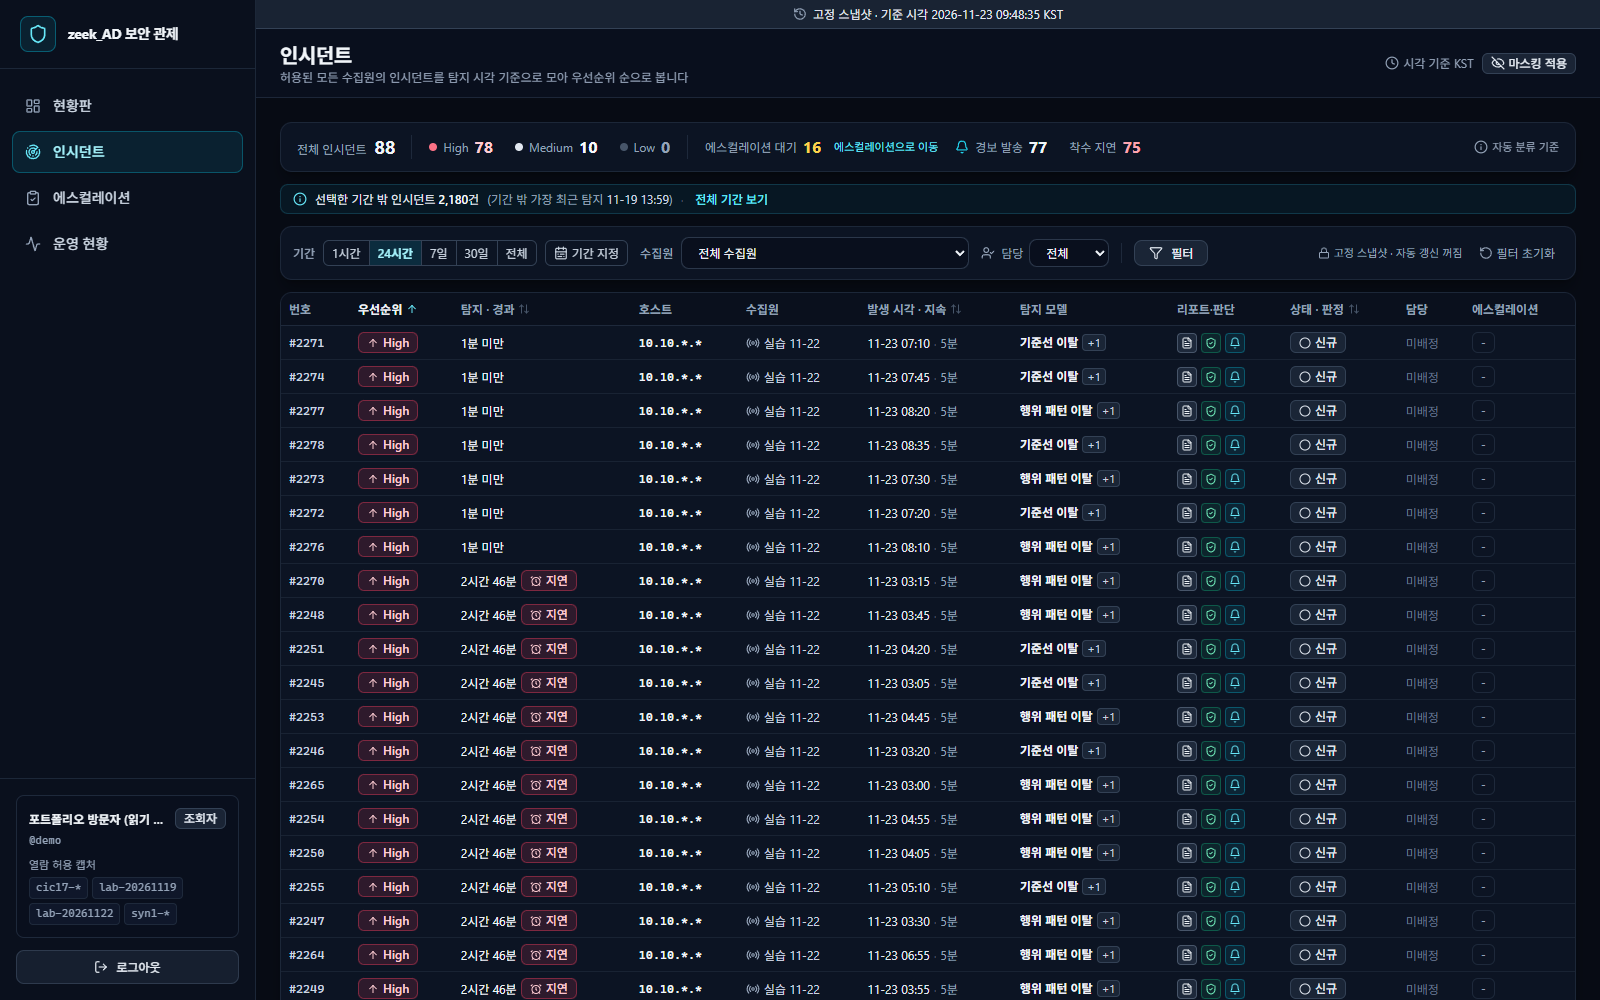
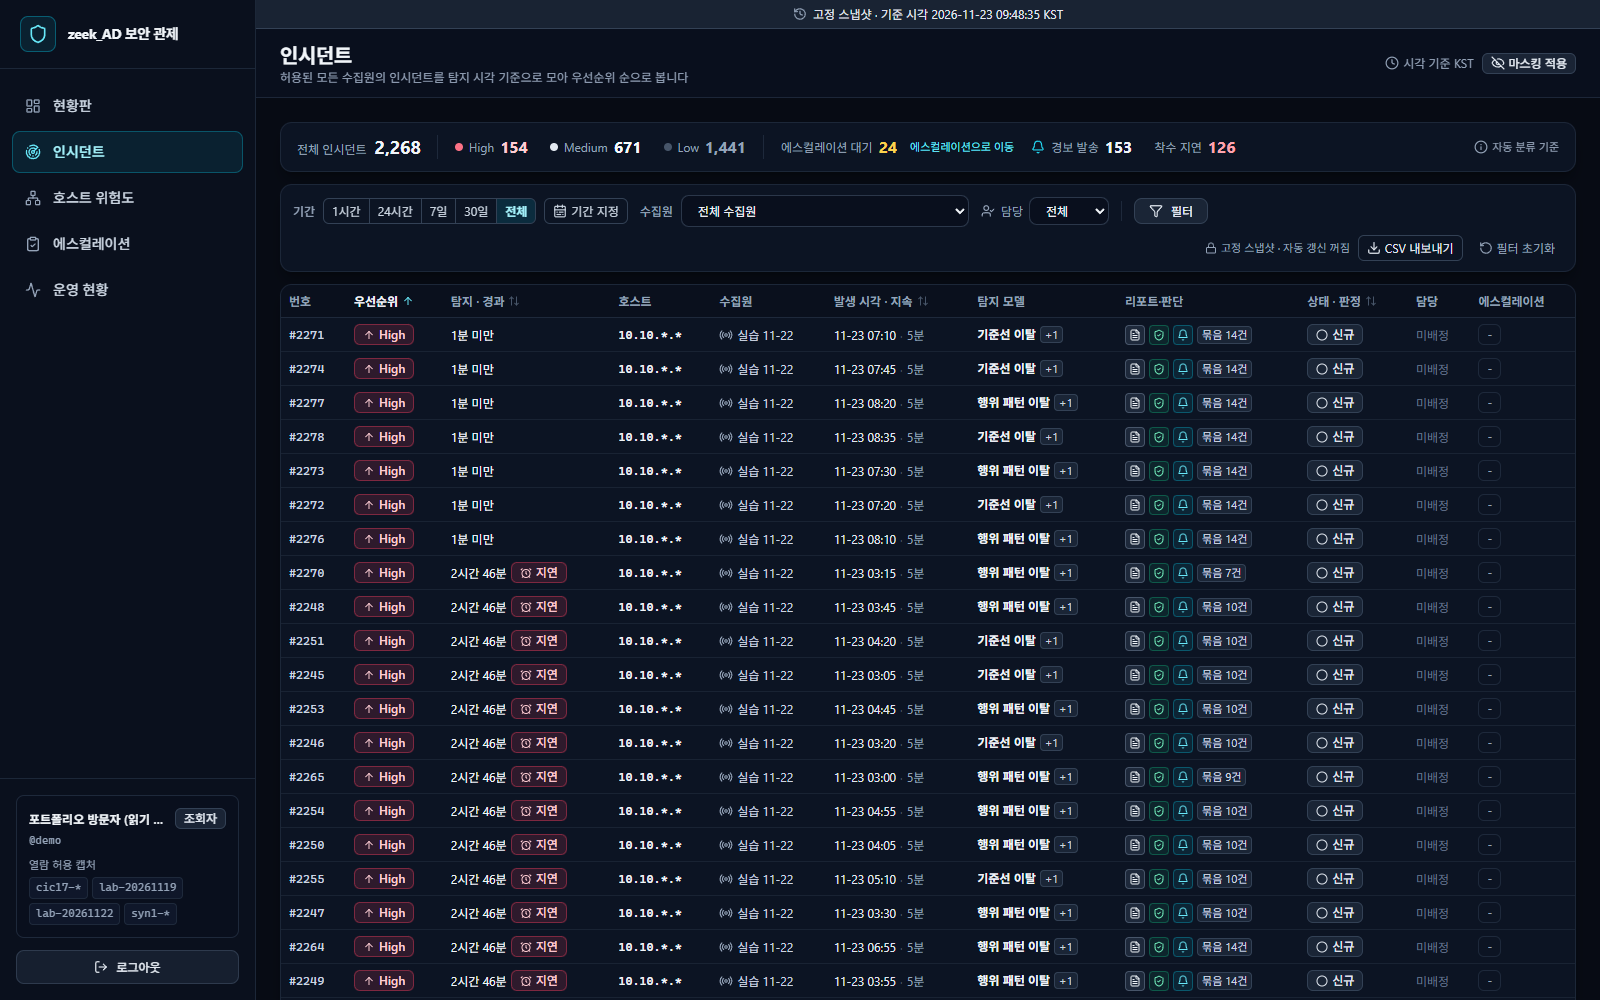
T47: 문서(README 새 화면 안내와 그림, 보안 검증 보고서 최근 검증, 변경 기록)
- README: 공개 데모 둘러보기에 현황판 위협 패널 셋, 호스트 위험도(조회자는 대역 단위, 호스트 단위는 체험 분석가 계정), 인시던트 목록의
  호스트·ATT&CK 조건과 묶음 표지·CSV 내보내기, 상세의 같은 호스트 인시던트·주요 통신 구조·요약 복사 안내. 권하는 순서에 호스트 위험도.
  역할별 화면에 분석가 호스트 위험도 그림. 문서의 작업 번호 범위 T01~T47
- 그림: 01·02·03(조회자), 04(분석가 조치 패널, 공개 데이터셋 인시던트)를 다시 찍고 09(분석가 호스트 위험도, 가져온 데이터만)를 더함
- 보안 검증 보고서 "최근 검증": 시험·빌드, VMware E2E([21]), 리허설([T47]), Trivy 문단을 T47 실행 값으로. 공개 주소 확인 줄은 그대로(T43 결과)
- 변경 기록: T47 행, 번호 범위
- README "검증"의 최근 결과 줄과 "아쉬운 점"의 큐 응답 시간 문장은 공개 주소 확인 뒤에 고친다

diff --git a/docs/security-verification-report.md b/docs/security-verification-report.md
@@ -4,16 +4,16 @@
 
 ## 최근 검증
 
-주요 변경 뒤 아래 검증을 다시 돌립니다. 가장 최근 E2E 실행은 `T43`(2026-11-24, commit `b8d6eab`)이고 그 뒤에는 문서만 바뀌었습니다. 가장 최근 리허설은 `T42`(commit `ada93a0`)입니다(`T43`은 서버·스냅샷·권한을 바꾸지 않아 다시 돌리지 않았습니다). 공개 주소 확인은 `T43` 앱 이미지 교체 뒤 결과입니다. 실행 기록 원본은 저장소 밖에 보관합니다.
+주요 변경 뒤 아래 검증을 다시 돌립니다. 가장 최근 E2E 실행과 리허설은 `T47`(2026-11-26, commit `227775b`)이고 그 뒤에는 문서와 그림만 바뀌었습니다. 공개 주소 확인은 `T43` 앱 이미지 교체 뒤 결과입니다. 실행 기록 원본은 저장소 밖에 보관합니다.
 
 | 검증 | 다시 돌리는 방법 | 결과 |
 |---|---|---|
-| 프론트엔드 타입 검사·Vitest·빌드, Gradle `check`(단위·통합·정적 보안 시험) | `npm --prefix frontend run typecheck`, `run test`, `run build`, `.\gradlew.bat check --rerun-tasks --no-daemon` | 모두 통과(Gradle 시험 225개, Vitest 363개, `T43`. 현황판 "전체 기간" 링크 조건과 링크 안 링크 없음, 0건 안내 한 문단, 템플릿 리포트 표시 시험 포함. `T42`의 근거 API가 HTTP가 아닌 응답·모양이 다른 JSON·`4xx`·`5xx`를 줄 때 상세 `200`·증적만 불러오지 못함·로그에 응답 본문 없음 시험 포함) |
-| VMware 구성 E2E(PostgreSQL 17 + WAF + SPA/JSON API, 역할별 권한·IDOR·마스킹·감사 로그) + OWASP ZAP 베이스라인 | `scripts/security-scan.ps1` | 종료 코드 `0`, 알림 묶음(허용 캡처 밖 구성원 제외·허용 밖 묶음 머리 식별자 숨김·`thread` 조건 `403`과 IDOR 감사·형식 오류 `400`) `[20]`, 사유·메모 길이 상한 `[17]`·사용자 지정 기간 `[18]`·AI 리포트 근거 새 칸의 조회자 IPv4 마스킹(객체 키 포함) `[19]`·Slack 알림 기록(`text`·`blocks`)의 조회자 IPv4 마스킹 `[4b]` 포함, ZAP High `0`·Medium `0`·Low `0`(허용 예외 `XSRF-TOKEN` 제외)·Informational `4` |
-| 공개 스택 리허설(스냅샷 복원, 시드, E2E `[0]`~`[8]`·`[T33]`(체험 계정 초기화, 주기 1분)·`[T25]`·`[T27]`·`[T29]`·`[T32]`·`[T36]`(익명 볼륨·조회 한도·HSTS·빠른 사람 사용 흉내)·`[T39]`(새 캡처 상세의 스레드 표시 칸·조회자 IPv4 마스킹, 숨김 캡처 부모 0, 옛 사건 번호 유지, 숨김 캡처 ID 노출 0)·`[T40]`(알림 묶음 11개의 목록 수와 상세 묶음 칸 = 독립 SQL, 숨김 캡처 구성원 14건 제외, 숨김 캡처 번호 `403`, 응답 시간), ZAP) | `scripts/portfolio-verify.ps1` | 통과, ZAP High `0`·Medium `0`·Low `0`·Informational `4` |
+| 프론트엔드 타입 검사·Vitest·빌드, Gradle `check`(단위·통합·정적 보안 시험) | `npm --prefix frontend run typecheck`, `run test`, `run build`, `.\gradlew.bat check --rerun-tasks --no-daemon` | 모두 통과(Gradle 시험 271개, Vitest 468개, `T47`. `T44`~`T46`·`T45b`가 더한 인시던트 목록 `hostIp`·`attack` 조건, 묶음 표지, 호스트 위험도, 같은 호스트 인시던트, 조회자 관측 계정 가리기, 현황판 위협 패널 시험 포함) |
+| VMware 구성 E2E(PostgreSQL 17 + WAF + SPA/JSON API, 역할별 권한·IDOR·마스킹·감사 로그) + OWASP ZAP 베이스라인 | `scripts/security-scan.ps1` | 종료 코드 `0`, `T44`~`T46`·`T45b` 기능 `[21]`(인시던트 목록 `hostIp`·`attack` 건수, 묶음 표지, 호스트 위험도 `/api/hosts`, 같은 호스트 인시던트, 현황판 새 집계가 독립 SQL과 같은 조건의 목록 건수와 같음. 조회자가 온전한 주소로 물으면 있는 호스트와 없는 호스트가 같은 `200`·0건. 조회자 응답에 온전한 IPv4와 계정 원문 없음. `*`가 든 호스트 조건과 공백이 든 ATT&CK 조건이 WAF를 지남. 허용 밖 `403`과 IDOR 감사, 형식 오류 `400`), 알림 묶음(허용 캡처 밖 구성원 제외·허용 밖 묶음 머리 식별자 숨김·`thread` 조건 `403`과 IDOR 감사·형식 오류 `400`) `[20]`, 사유·메모 길이 상한 `[17]`·사용자 지정 기간 `[18]`·AI 리포트 근거 새 칸의 조회자 IPv4 마스킹(객체 키 포함) `[19]`·Slack 알림 기록(`text`·`blocks`)의 조회자 IPv4 마스킹 `[4b]` 포함, ZAP High `0`·Medium `0`·Low `0`(허용 예외 `XSRF-TOKEN` 제외)·Informational `4` |
+| 공개 스택 리허설(스냅샷 복원, 시드, E2E `[0]`~`[8]`·`[T33]`(체험 계정 초기화, 주기 1분)·`[T25]`·`[T27]`·`[T29]`·`[T32]`·`[T36]`(익명 볼륨·조회 한도·HSTS·빠른 사람 사용 흉내)·`[T39]`(새 캡처 상세의 스레드 표시 칸·조회자 IPv4 마스킹, 숨김 캡처 부모 0, 옛 사건 번호 유지, 숨김 캡처 ID 노출 0)·`[T40]`(알림 묶음 11개의 목록 수와 상세 묶음 칸 = 독립 SQL, 숨김 캡처 구성원 14건 제외, 숨김 캡처 번호 `403`, 응답 시간)·`[T47]`(실제 스냅샷에서 `demo`·`trial-analyst`로 인시던트 목록 `hostIp`·`attack` 건수, 묶음 표지, 호스트 위험도, 같은 호스트 인시던트, 현황판 새 집계 = 독립 SQL·목록 건수, 조회자 응답의 온전한 IPv4·계정 원문·숨김 캡처 ID `0`, 공개 캡처의 IPv6 호스트 주소 `0`건, 전체 기간 인시던트 목록 중앙값 앞 이미지 371ms·새 이미지 372ms), ZAP) | `scripts/portfolio-verify.ps1` | 통과, ZAP High `0`·Medium `0`·Low `0`·Informational `4` |
 | 공개 주소 확인(`demo` 로그인·마스킹·허용 캡처·숨김 캡처 `403`·보안 헤더·쿠키 속성 등) | [`docs/portfolio-deployment.md`](portfolio-deployment.md) 4.4 체크리스트(WAF 차단·깨진 XML 본문 `400`·전달 헤더 신뢰 포함) | PASS `232`, FAIL `1`. FAIL은 `[10f]` 전체 기간 인시던트 목록 응답 최댓값 1,005ms가 기준 1초를 넘은 것입니다(`T42` 1,006ms, 목록 API는 `T43`에서 바뀌지 않음). 같은 요청을 나눠 재면 첫 바이트까지 899~915ms이고 연결·TLS는 약 10ms, DB를 읽지 않는 요청의 첫 바이트는 19ms라 대부분 앱·DB 처리 시간입니다. 확인 항목: 배포 화면 번들의 "전체 기간" 링크·템플릿 리포트 문구와 `demo` 현황판 24시간에서 가져온 데이터 8개가 기간 안 0건·마지막 탐지 기간 밖이고 그 캡처의 전체 기간 목록이 1건 이상 `[T43]`, 배포 화면 번들의 조치 막힘 이유·운영 현황 "불러오지 못했습니다" 문구 `[T42]`, 요청 제한·최신 아님 안내 문구 `[T41]`, 알림 묶음 11개의 목록 수·`lab-20261122` 상세 88건의 묶음 칸 = 독립 SQL, 숨김 캡처 번호 `403`, 조회자 IPv4 `0`, 응답 시간 `[T40]`, 사용자 지정 기간 `[T34]`, 이전·다음 이동 = 목록 순서·응답 시간 `[T35]`, HSTS 하나·조회 한도·볼륨·초기화 `[T36]`, 리포트 있는 상세 112건의 근거 새 칸·조회자 IPv4 `0`·응답 시간 `[T37]`, Slack 기록 있는 상세 153건의 알림 기록 조회자 IPv4 `0` `[T38]`, `lab-20261122` 상세 88건 전부 200·조회자 IPv4 `0`·스레드 답글 117·채널 재알림 21, 옛 인시던트 번호 2,192건 그대로 `[T39]` |
 
-Trivy는 의존성이나 Dockerfile이 바뀔 때 돌립니다. 마지막 실행은 `T43`(2026-11-24, E2E 안)이고 결과는 `T31`(2026-11-22) 때와 같습니다.
+Trivy는 의존성이나 Dockerfile이 바뀔 때 돌립니다. 마지막 실행은 `T47`(2026-11-26, E2E 안)이고 결과는 `T31`(2026-11-22) 때와 같습니다.
 
 | 스캔 대상 | CRITICAL | HIGH | MEDIUM | 내용 |
 |---|---:|---:|---:|---|

diff --git a/README.md b/README.md
@@ -21,12 +21,17 @@
 - 실습망 인시던트에 붙은 빨간 **착수 지연** 표지는 탐지 뒤 착수 목표(High 30분, Medium 4시간, Low 24시간) 안에 아무도 착수하지 않은 건에 붙습니다. 실습망은 탐지 시험용이라 대응하는 분석가가 없어 인시던트가 신규로 남아 있고 기준 시각에 이미 목표를 넘긴 건이 많습니다(전체 기간 126건). 화면의 시간은 기준 시각에 멈춰 있어 표지가 더 늘지는 않습니다. `trial-analyst`로 로그인해 그 건의 상태를 "분석 중"으로 바꾸면 표지가 사라지고 매시 정각 초기화 때 다시 붙습니다. CIC·합성 같은 가져온 데이터는 재생 데이터라 착수 목표를 따지지 않아 표지가 붙지 않습니다.
 - `lab-20261122`는 Kali에서 공격 7종(빠른·느린 스캔, 비커닝, 느린 유출, 측면 이동, SSH 무차별 대입, DNS 터널)을 타깃 VM으로 실행한 날의 캡처입니다(인시던트 88건, 그중 Slack 경보 77건). 상세의 **Slack** 탭에는 그 인시던트의 알림만 보이고 스레드 관계는 표지와 들여쓰기로 나타납니다. 묶음을 연 인시던트에서는 첫 알림이 "최초 알림"이고 같은 인시던트의 뒤 알림은 들여쓴 "후속 알림"입니다. 다른 인시던트가 연 묶음에 붙은 알림은 들여쓴 "타 인시던트 후속 알림"으로 보입니다. 그중 채널에도 다시 올린 알림에는 "채널에도 표시" 표지가 붙습니다. 다른 인시던트가 연 묶음 위에는 "최초 알림 인시던트" 링크(뒤에 그 인시던트 번호)가 있어 묶음을 연 인시던트의 Slack 탭으로 갑니다. 묶음에 인시던트가 둘 이상이면 "같은 묶음 인시던트" 링크(뒤에 건수)를 눌러 인시던트 목록에서 그 묶음만 모아 봅니다. 스레드를 기록하기 전(2026-11-19 06:20 UTC 전)의 알림은 같은 인시던트의 첫 알림만 "최초 알림"이고 그 뒤 알림은 "스레드 기록 없음"으로 보입니다(`lab-20261119`와 가져온 데이터).
 - 기간 버튼 끝의 **기간 지정**에서 시작·끝 시각(KST, 분 단위)을 정하면 그 구간에 탐지된 인시던트만 봅니다. 범위는 주소에 남아 링크로 나눌 수 있습니다. 현황판 탐지 추이에서 막대를 누르면 그 구간의 큐로 갑니다.
+- 현황판 아래쪽에는 **ATT&CK 전술·기법 후보**, **위험 호스트 상위 5**, **주요 알림 묶음** 패널이 있습니다. 줄을 누르면 그 조건의 인시던트 목록이 열리고 줄의 건수는 열린 목록의 건수와 같습니다(알림 묶음은 "전체" 건수). ATT&CK 후보는 AI 리포트가 적은 가설이고 확정된 분류가 아닙니다.
+- **호스트 위험도** 메뉴는 인시던트를 호스트별로 묶어 미종결 High·Medium·Low 건수가 많은 호스트부터 보입니다. 줄을 누르면 그 호스트의 인시던트 목록으로 갑니다. `demo`에서는 주소가 가려져 있어 한 줄(`10.10.*.*`)이 호스트 하나가 아니라 그 대역의 호스트 전부입니다. 호스트 하나씩 보거나 "목적지 → 출발지 전환" 표지를 보려면 `trial-analyst`로 로그인하세요.
+- 인시던트 목록은 호스트(`hostIp`)와 ATT&CK 전술·기법(`attack`) 조건을 받습니다. 호스트 위험도의 줄, 상세 머리줄의 호스트 IP, 현황판 패널의 줄이 이 조건을 붙여 목록을 열고 걸린 조건은 목록 위에 칩으로 보입니다. Slack 알림이 다른 인시던트와 한 스레드로 묶인 행에는 **묶음 N건** 표지가 붙고 누르면 그 묶음의 인시던트만 모아 봅니다. **CSV 내보내기**는 지금 쪽의 행을 내려받습니다.
+- 인시던트 상세의 요약 탭 아래에는 **같은 호스트의 다른 인시던트**가 발생 시각이 가까운 순으로 10건까지 나옵니다(`demo`는 같은 대역). 증적 탭의 **주요 통신 구조**는 대상 호스트와 세션이 많은 상대 IP를 다섯까지 선으로 이은 그림입니다. 머리줄의 **요약 복사**는 인시던트 요약을 마크다운으로 복사합니다. 내보내기와 복사는 화면이 이미 받은 값만 쓰므로 `demo`는 가려진 값을 가져갑니다.
 
 처음 보실 때 권하는 순서:
-1. **현황판**: 기간을 "전체"로 바꾸면 탐지 추이와 수집원 상태가 보입니다.
+1. **현황판**: 기간을 "전체"로 바꾸면 탐지 추이와 수집원 상태, 그 아래 위협 패널 셋이 보입니다.
 2. **인시던트**: 우선순위 High부터 정렬된 큐입니다. 착수 목표를 넘긴 건에는 "지연" 표지가 붙습니다.
 3. 인시던트 하나를 열어 **요약 → 증적 → AI 리포트 → 발송 판단** 탭 순서로 봅니다.
-4. **운영 현황**: 분석가 판정 집계, 처리 시간(MTTD·MTTA·MTTR), 탐지 작업 기록입니다.
+4. **호스트 위험도**: 기간을 "전체"로 바꾸면 먼저 볼 호스트가 위에 옵니다.
+5. **운영 현황**: 분석가 판정 집계, 처리 시간(MTTD·MTTA·MTTR), 탐지 작업 기록입니다.
 
 ## 무엇을 만들었나
 
@@ -72,6 +77,10 @@ flowchart LR
 | 인시던트 상세와 조치 패널 | 에스컬레이션 목록 |
 |---|---|
 | ![분석가 인시던트 상세 조치 패널](docs/images/04-analyst-detail-actions.png) | ![분석가 에스컬레이션 목록](docs/images/05-analyst-escalations.png) |
+
+분석가의 호스트 위험도 화면은 호스트 주소 하나가 한 줄입니다(그림은 가져온 데이터만 건 것). 조회자에게는 같은 화면이 대역(`A.B.*.*`) 단위 줄로 보이고 관측 계정은 첫 글자만 남습니다.
+
+![분석가 호스트 위험도](docs/images/09-analyst-hosts.png)
 
 **관리자**: 비밀번호 다음에 TOTP 2단계 인증을 거쳐야 업무 API가 열립니다. 사용자의 역할과 열람 허용 캡처를 관리하고 수정·삭제할 수 없는 감사 로그를 봅니다.
 
@@ -151,7 +160,7 @@ powershell -NoProfile -ExecutionPolicy Bypass -File scripts/security-scan.ps1 -E
 ## 문서
 
 - [주요 판단 기록](docs/design-decisions.md)
-- [변경 기록](docs/changelog.md): 코드와 시험 이름에 나오는 작업 번호(`T01`~`T34`)
+- [변경 기록](docs/changelog.md): 코드와 시험 이름에 나오는 작업 번호(`T01`~`T47`)
 - [배포 및 운영 가이드](docs/deployment-guide.md): VMware 실습 환경
 - [포트폴리오 공개 배포 안내서](docs/portfolio-deployment.md): 공개 데모(Synology NAS)
 - [보안 검증 보고서](docs/security-verification-report.md)

diff --git a/docs/changelog.md b/docs/changelog.md
@@ -1,6 +1,6 @@
 # 변경 기록
 
-코드 주석, 시험 이름, 검증 스크립트 출력, 문서에 나오는 작업 번호(`T01`~`T46`)가 무엇을 바꾼 작업인지 적습니다. 커밋 메시지도 같은 번호로 시작합니다(`git log --grep T23`).
+코드 주석, 시험 이름, 검증 스크립트 출력, 문서에 나오는 작업 번호(`T01`~`T47`)가 무엇을 바꾼 작업인지 적습니다. 커밋 메시지도 같은 번호로 시작합니다(`git log --grep T23`).
 
 ## 작업 번호
 
@@ -54,6 +54,7 @@
 | `T45` | 2026-11-25 | 인시던트 목록 API 셋(목록·새 건수·이전·다음)에 호스트 정확 일치 조건 `hostIp`(`A.B.C.D` 또는 `A.B.*.*`)와 ATT&CK 조건 `attack`(기법 ID 또는 전술)을 더함. 조회자는 가려진 값으로만 맞춰 원문 주소가 있는지 알 수 없음. 목록 행에 Slack 알림 묶음 표지 "묶음 N건"을 더함(응답 `threadHeadNo`·`threadMemberCount`, 건수는 상세 Slack 탭과 같고 읽기 질의 수는 쪽의 행 수와 무관함). 상세 머리줄의 호스트 IP를 그 호스트의 인시던트 목록으로 가는 링크로 만듦. CSV 시각 열 머리줄에 `(KST)`를 붙임. `zeek_AD`와 DB 스키마는 그대로임 |
 | `T45b` | 2026-11-25 | 현황판에 위협 가시성 패널 셋을 더함(`GET /api/dashboard/overview` 응답 `attack`·`topHosts`·`topThreads`·`topThreadsOmitted`). ATT&CK 전술·기법 후보 분포(리포트의 후보를 센 값, 기법은 상위 10개), 통신 방향별 위험 호스트 상위 5(미종결 High·Medium·Low 건수 순), 주요 알림 묶음 상위 5(Slack 스레드로 묶인 알림, 기간 내 건수 순). 각 줄의 건수는 그 줄을 눌러서 가는 인시던트 목록의 건수와 같음(알림 묶음은 전체 건수). 조회자는 가려진 주소(`A.B.*.*`) 단위로 묶어 보고 원문 주소가 응답에 나가지 않음. 읽기 질의 수는 인시던트·호스트·묶음 수와 무관함. `zeek_AD`와 DB 스키마는 그대로임 |
 | `T46` | 2026-11-25 | 호스트 위험도 화면 `/hosts`(메뉴 "호스트 위험도")와 `GET /api/hosts`를 더함. 현황판과 같은 조건(기간·수집원)의 인시던트를 호스트별로 묶어 미종결 우선순위 건수, 인시던트 수, 세션 수, 탐지 모델, 호스트 이름, 관측 계정, 마지막 탐지를 보이고 줄을 누르면 같은 조건의 인시던트 목록(`hostIp`)으로 감(줄의 인시던트 수는 그 목록의 건수와 같음). 분석가·관리자에게는 같은 캡처에서 목적지로 탐지된 뒤 출발지로 탐지된 호스트에 "목적지 → 출발지 전환" 표지를 붙임. 조회자는 가려진 주소(`A.B.*.*`) 단위로 묶고 전환을 판정하지 않으며 검색은 가려진 글에만 맞춤. 상세 요약 탭 맨 아래에 같은 호스트(조회자는 같은 대역)의 다른 인시던트를 발생 시각이 가까운 순으로 10건까지 보임(`GET /api/incidents/{jobId}/rank/{queueRank}/related-host-incidents`. 상세와 따로 불러 실패해도 그 구역에만 보임). 조회자에게 관측 계정 이름(`zeekad_name`)을 첫 글자 + `***`로 가림(그 전에는 원문이 나갔음). `zeek_AD`와 DB 스키마는 그대로임 |
+| `T47` | 2026-11-26 | E 단계(`T44`~`T46`, `T45b`)를 실제 스택에서 확인함(앱 코드는 그대로). 검증용 PostgreSQL 스키마·시드에 `zeekad_name`·`zeekad_name_kind` 열을 더함. VMware 구성 E2E에 `[21]`을 더함: 인시던트 목록의 `hostIp`·`attack` 건수, 묶음 표지, 호스트 위험도, 같은 호스트 인시던트, 현황판 새 집계가 독립 SQL과 같은 조건의 목록 건수와 같은지, `*`가 든 호스트 조건과 공백이 든 ATT&CK 조건이 WAF를 지나는지, 조회자 응답에 온전한 IPv4와 계정 원문이 없는지 봄. 공개 스택 리허설에 `[T47]`을 더함: 같은 확인을 실제 스냅샷에서 `demo`·`trial-analyst`로 하고 인시던트 목록 응답 시간을 앞 이미지와 같은 스택에서 견줌. README에 새 화면 안내와 호스트 위험도 그림을 더하고 그림 넷을 다시 찍음 |
 
 ## 검증 단계 이름
 
